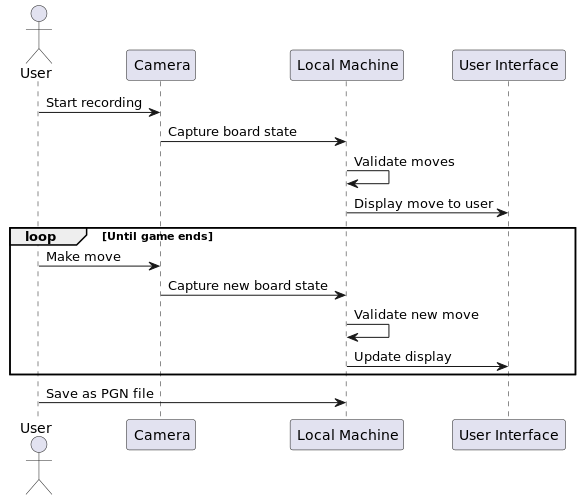
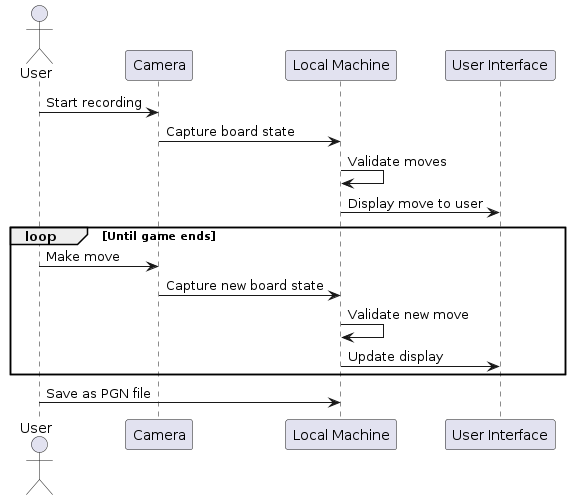
Updates from Overleaf

diff --git a/chapters/04-theory.tex b/chapters/04-theory.tex
@@ -32,7 +32,7 @@ As a subfield of \gls{ai}, computer vision focuses on enabling machines to inter
 \begin{figure}[h!]
     \centering
     \includegraphics[width=0.75\linewidth]{figures//theory/computer-vision.png}
-    \caption{Computer Vision \& Human Vision}
+    \caption{Computer Vision \& Human Vision \cite{turing:computer-vision}}
     \label{fig:computer-vision}
 \end{figure}
 
@@ -43,7 +43,7 @@ Artificial Neural Networks (ANNs) are a cornerstone of modern machine learning, 
 \begin{figure}[h!]
     \centering
     \includegraphics[width=0.75\linewidth]{figures//theory/artificial-neural-network.png}
-    \caption{Artificial Neural Network Layers}
+    \caption{Artificial Neural Networks Architecture \cite{geeksforgeeks:ann}}
     \label{fig:artificial-neural-network}
 \end{figure}
 
@@ -62,7 +62,7 @@ For instance, pretend you want to teach a model to identify shapes. You provide 
 \begin{figure}[h!]
     \centering
     \includegraphics[width=0.75\linewidth]{figures/theory/supervised-learning.png}
-    \caption{Supervised Learning Process}
+    \caption{Supervised Learning Diagram \cite{tpointtech:supervised-learning}}
     \label{fig:supervised-learning}
 \end{figure}
 
@@ -77,7 +77,7 @@ One of the most common examples of classification algorithms in use is the spam 
 \begin{figure}[h!]
     \centering
     \includegraphics[width=0.75\linewidth]{figures/theory/classification.jpg}
-    \caption{Spam Classification}
+    \caption{Email Classification \cite{analytixlabs:classification}}
     \label{fig:classification}
 \end{figure}
 
@@ -88,6 +88,10 @@ One of the most common examples of classification algorithms in use is the spam 
 \subsubsection*{Cross-Platform}
 
 \textbf{*Brief description of what one might expect to read in the \textit{Cross-Platform} section*}
+
+\subsubsection*{Online}
+
+\textbf{*Brief description of what one might expect to read in the \textit{Online} section*}
 
 \section{Design}
 
@@ -147,7 +151,7 @@ Cohesion and coupling are two fundamental concepts in software design that signi
     \subfloat[\centering Cohesion]{{\includegraphics[width=0.5\linewidth]{figures/theory/cohesion.png}}}
     \subfloat[\centering Coupling]{{\includegraphics[width=0.5\linewidth]{figures/theory/coupling.png}}}
     
-    \caption{Cohesion \& Coupling}
+    \caption{Cohesion \& Coupling \cite{geeksforgeeks:c&c}}
     \label{fig:cohesion-coupling}
 \end{figure}
 
@@ -162,6 +166,8 @@ Documentation is a critical component of software development, consisting of wri
 High-quality documentation is essential for the success of any software project. It simplifies onboarding for new team members, aids in troubleshooting and debugging, and ensures that the software can be maintained and extended over time. Moreover, well-documented code and systems reduce the risk of knowledge loss when team members change or when revisiting older parts of the codebase. \cite{geeksforgeeks:doc} \\
 
 In modern software development, documentation is not merely an afterthought but an integral part of the development process. It should be created and maintained alongside the code, ensuring that it remains accurate, up-to-date, and accessible to all relevant parties.
+
+\subsection{}
 
 \subsection{Testing}
 

diff --git a/chapters/05-method.tex b/chapters/05-method.tex
@@ -4,20 +4,52 @@
     \textit{Here, the development process and methodologies are described in detail. This includes the design and implementation of the desktop application, the selection of tools and frameworks, and the approach to solving the problem.}
 \end{center}
 
-\section{Client Collaboration}
+% \section{Client Collaboration}
 
 
 
 \section{Development Approach}
 
-% \subsection{Sprints}
+\subsection{Sprints}
 
-% \subsection{Code Reviews}
+\subsection{Code Reviews}
 
-% \subsection{Agile Methodology}
+\subsection{Agile Methodology}
 
-% \section{Design}
+\subsection{UML}
 
+\begin{figure}[h!]
+    \centering
+    \includegraphics[width=0.75\linewidth]{figures/uml/sequence.png}
+    \caption{Sequence Diagram}
+    \label{fig:sequence}
+\end{figure}
+
+\begin{figure}[h!]
+    \centering
+    \includegraphics[height=0.75\linewidth]{figures/uml/activity.png}
+    \caption{Activity Diagram}
+    \label{fig:activity}
+\end{figure}
+
+\subsection{Design}
+
+\subsubsection*{Wireframe}
+
+\begin{figure}[h!]
+    \centering
+    \includegraphics[width=0.75\linewidth]{figures/wireframe/overview.png}
+    \caption{Wireframe of the Games Overview}
+    \label{fig:app-overview}
+\end{figure}
+
+
+\begin{figure}[h!]
+    \centering
+    \includegraphics[width=0.75\linewidth]{figures/wireframe/table-view.png}
+    \caption{Wireframe of the Table View of a Game on Table 1}
+    \label{fig:app-table-view}
+\end{figure}
 
 
 % \subsection{User-Centered Design}

diff --git a/chapters/06-results.tex b/chapters/06-results.tex
@@ -5,17 +5,3 @@
 \end{center}
 
 \section{More Figures}
-
-\begin{figure}
-    \centering
-    \includegraphics[width=0.75\linewidth]{figures//uml/sequence.png}
-    \caption{Sequence Diagram}
-    \label{fig:sequence}
-\end{figure}
-
-\begin{figure}
-    \centering
-    \includegraphics[width=0.75\linewidth]{figures//uml/activity.png}
-    \caption{Activity Diagram}
-    \label{fig:activity}
-\end{figure}

diff --git a/preamble.tex b/preamble.tex
@@ -216,6 +216,8 @@
 
 \newacronym{ui}{UI}{User Interface}
 
+\newacronym{uml}{UML}{Unified Modeling Language}
+
 \newacronym{usb}{USB}{Universal Serial Bus}
 
 \newacronym{ux}{UX}{User Experience}
